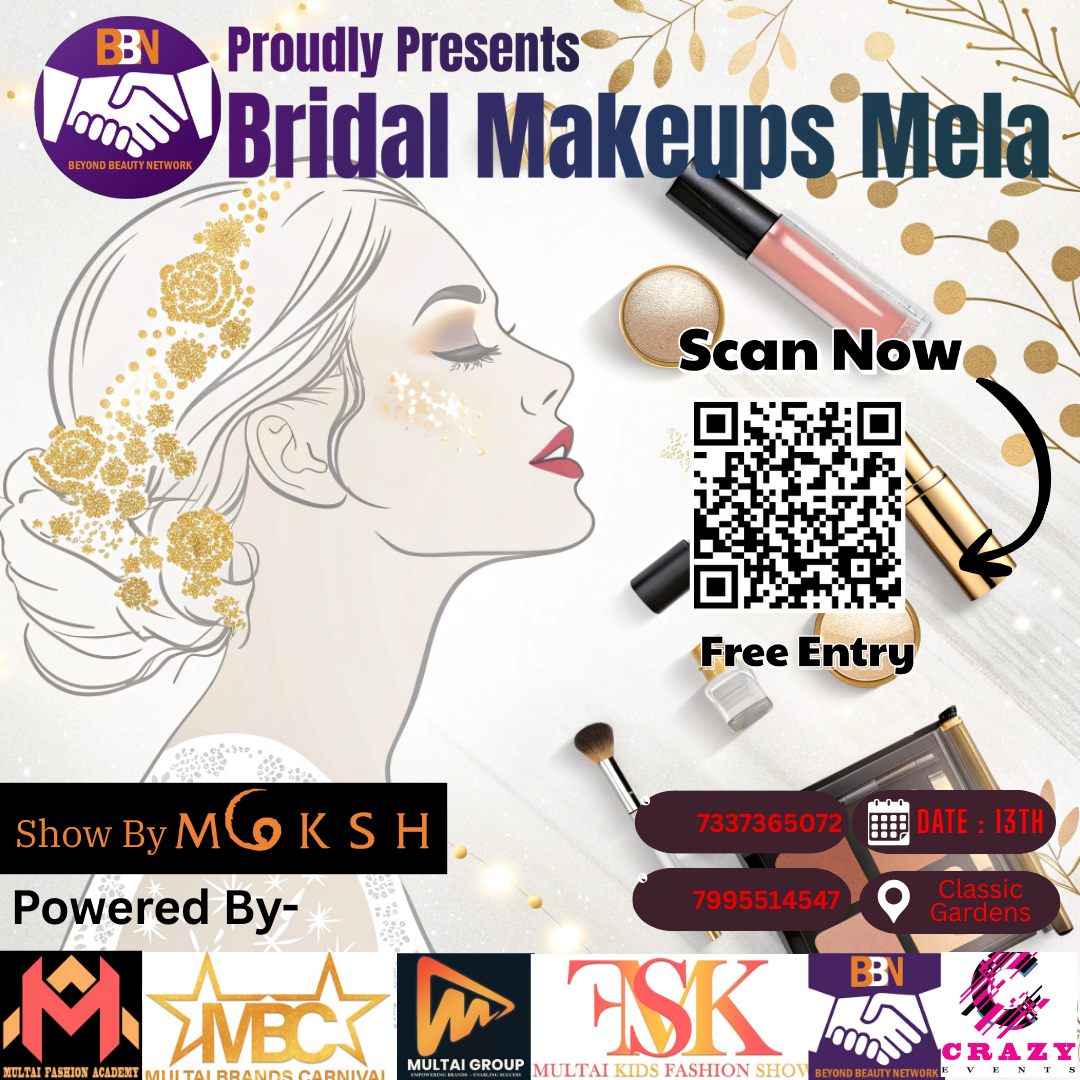
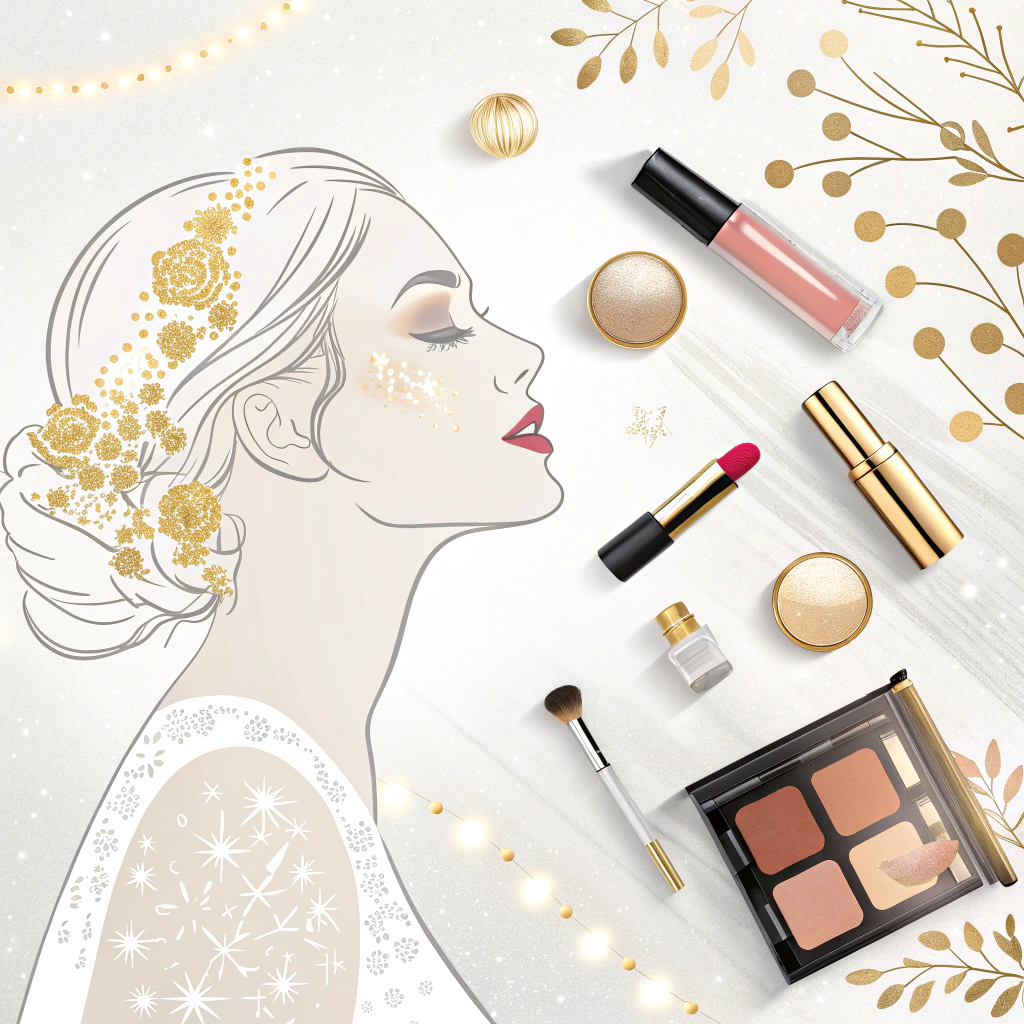
updated the events/id to gget the correct fkey, and updated the placholder/default image

diff --git a/app/events/[id]/page.tsx b/app/events/[id]/page.tsx
@@ -50,7 +50,7 @@ export default function EventDetailPage({
       try {
         const { data, error } = await supabase
           .from("events")
-          .select("*, sessions(*)")
+          .select("*, sessions:sessions!sessions_event_id_fkey(*)")
           .eq("id", id)
           .single();
 
